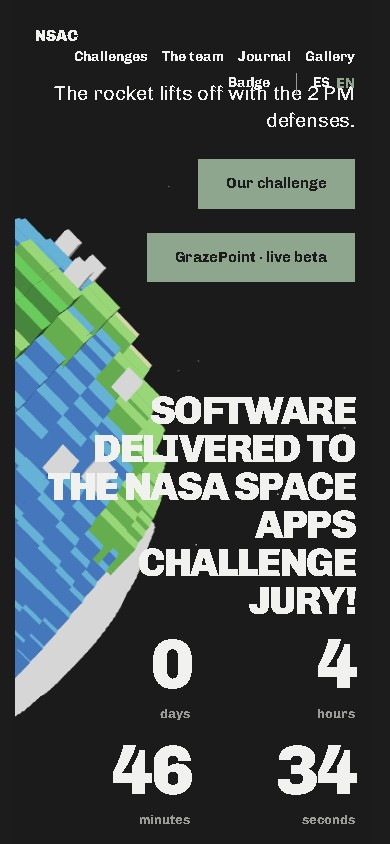
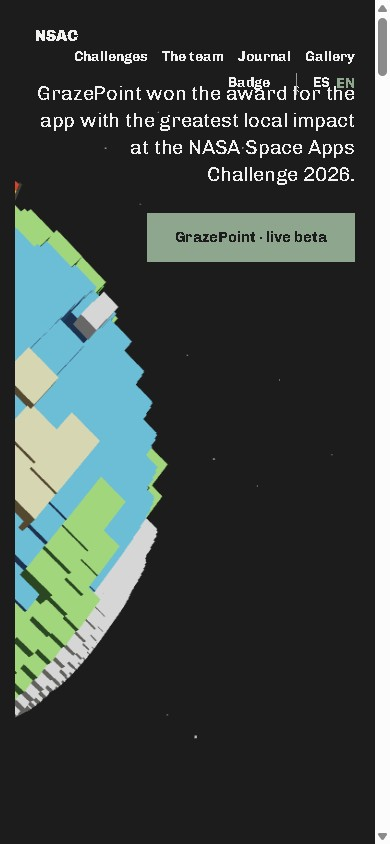
imagen/nsac.jpg: captura del hero post-galardon (app de mayor impacto local)
Generated with [Devin](https://devin.ai)

diff --git a/docs/log/2026-11-18.md b/docs/log/2026-11-18.md
@@ -1,0 +1,35 @@
+---
+type: sesion
+status: cerrada
+created: 2026-11-18
+tags: [log]
+---
+
+# 2026-11-18
+
+## `imagen/nsac.jpg` — resultado del galardón
+
+- GrazePoint ganó el galardón a la app de mayor impacto local en el
+  NASA Space Apps Challenge 2026 (ver `_posts/2026-11-15-impacto-local.md`
+  del repo NSAC).
+- `imagen/nsac.jpg` regenerada con la misma captura que
+  `assets/img/og-cover.jpg` del repo NSAC (hero 390×844 EN: planeta +
+  claim «GrazePoint won the award for the app with the greatest local
+  impact», sin cuenta regresiva porque `TEND` ya pasó).
+- Nota de tooling: el MCP de Playwright escribe las capturas con cwd en
+  este workspace (`desarrollo/`), no en NSAC; la imagen se copió desde
+  `D:/proyectos/NSAC/assets/img/og-cover.jpg`.
+- El texto de la tarjeta NSAC del home ya no menciona cuenta regresiva
+  (cambio del 2026-11-15); este commit solo actualiza la imagen.
+
+## Pendiente
+
+- En el repo NSAC quedan sin commitear los textos del resultado
+  (index ES/EN, `planet.js`, `i18n.yml`, `og-cover.jpg`, `AGENTS.md`).
+- `imagen/grazepoint.jpg` sigue con la marca vieja según STATE; la nota
+  del 2026-11-15 dice «pendiente recapturar» — el logo ya se puso el
+  mismo día (commit 7cf5dcd), revisar si la observación quedó vieja.
+
+## Commits
+
+- (se completa al commitear)
